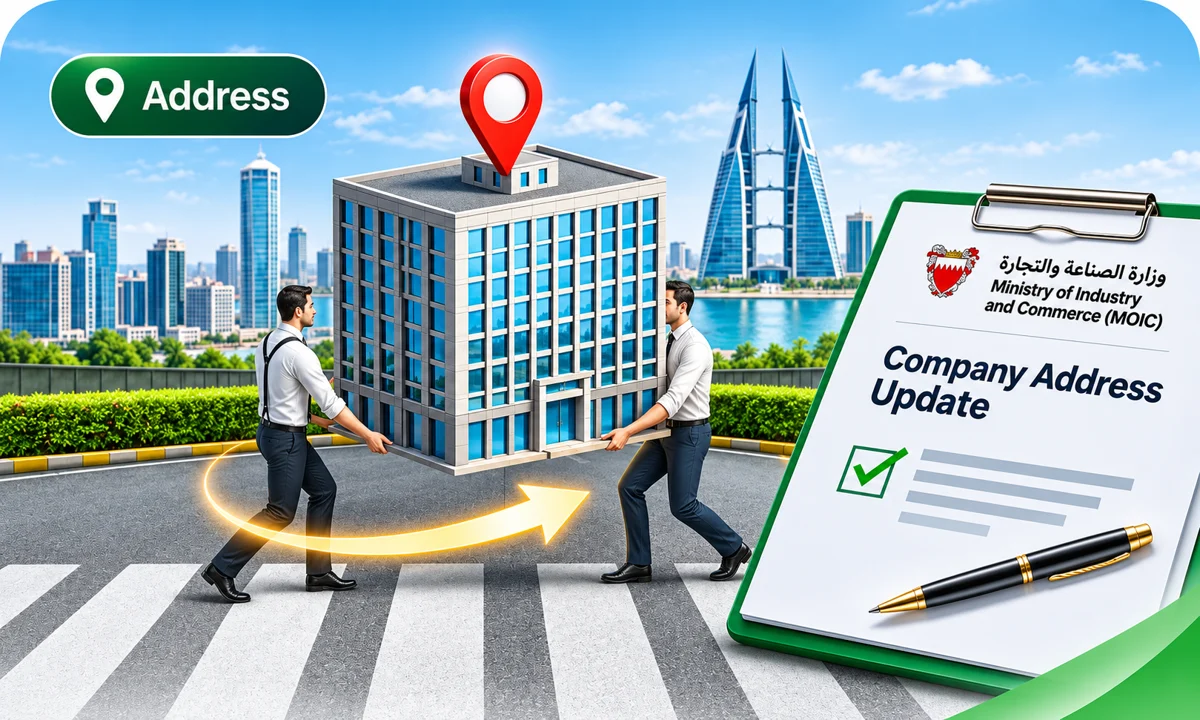
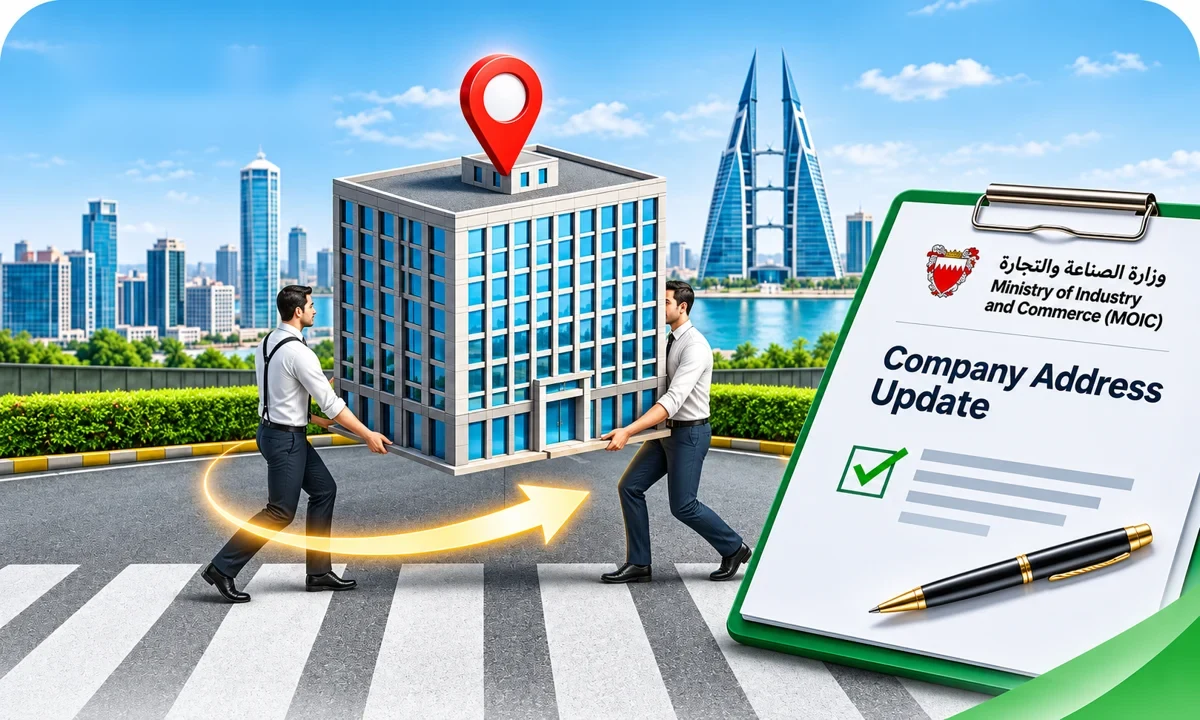
MOIC cards: replace baked-in image labels with standard glass tags
Claude-Session: https://claude.ai/code/session_01Q8SfPFzKec2UT1Fop63zbA

Changed region(s): [[0.0308, 0.0611, 0.2775, 0.2139]]

diff --git a/moic-services.html b/moic-services.html
@@ -11343,7 +11343,7 @@ input, select, textarea {
         </header>
         <div class="cm2-stack">
 <section class="bcx moic-x" id="moic-services" aria-label="Ministry of Industry &amp; Commerce services">
-  <div class="gvx-grid moic-gvx"><a class="gvx-card" href="https://wa.me/97317290001?text=Hi%20DMS%2C%20I%20need%20help%20with%20MOIC%3A%20Add%20or%20remove%20signatories" target="_blank" rel="noopener" aria-label="Add or remove signatories, ask on WhatsApp"><img class="gvx-bg" src="assets/moic-signatories.webp" alt="" loading="lazy" decoding="async" style="object-position:center 30%"><span class="gvx-grade" aria-hidden="true"></span><span class="gvx-tag">Signatories</span><h3>Add or remove signatories</h3><p>Update who can sign and act for your company.</p><span class="gvx-go" aria-hidden="true"><svg viewBox="0 0 24 24"><path d="M5 12h14M13 6l6 6-6 6"/></svg></span></a><a class="gvx-card" href="https://wa.me/97317290001?text=Hi%20DMS%2C%20I%20need%20help%20with%20MOIC%3A%20Company%20address%20change" target="_blank" rel="noopener" aria-label="Company address change, ask on WhatsApp"><img class="gvx-bg" src="assets/moic-address-move.webp" alt="" loading="lazy" decoding="async" style="object-position:left top"><span class="gvx-grade" aria-hidden="true"></span><h3>Company address change</h3><p>Register your new company address with MOIC.</p><span class="gvx-go" aria-hidden="true"><svg viewBox="0 0 24 24"><path d="M5 12h14M13 6l6 6-6 6"/></svg></span></a><a class="gvx-card" href="https://wa.me/97317290001?text=Hi%20DMS%2C%20I%20need%20help%20with%20MOIC%3A%20Offense%20removal" target="_blank" rel="noopener" aria-label="Offense removal, ask on WhatsApp"><img class="gvx-bg" src="assets/lmx-admin.webp" alt="" loading="lazy" decoding="async" style="object-position:center 35%"><span class="gvx-grade" aria-hidden="true"></span><span class="gvx-tag">Compliance</span><h3>Offense removal</h3><p>Clear outstanding MOIC violations on your record.</p><span class="gvx-go" aria-hidden="true"><svg viewBox="0 0 24 24"><path d="M5 12h14M13 6l6 6-6 6"/></svg></span></a><a class="gvx-card" href="https://wa.me/97317290001?text=Hi%20DMS%2C%20I%20need%20help%20with%20MOIC%3A%20Audit%20report%20submission" target="_blank" rel="noopener" aria-label="Audit report submission, ask on WhatsApp"><img class="gvx-bg" src="assets/moic-audit.webp" alt="" loading="lazy" decoding="async" style="object-position:center 58%"><span class="gvx-grade" aria-hidden="true"></span><span class="gvx-tag">Annual filing</span><h3>Audit report submission</h3><p>File your annual audited financial statements.</p><span class="gvx-go" aria-hidden="true"><svg viewBox="0 0 24 24"><path d="M5 12h14M13 6l6 6-6 6"/></svg></span></a><a class="gvx-card" href="https://wa.me/97317290001?text=Hi%20DMS%2C%20I%20need%20help%20with%20MOIC%3A%20UBO%20registration%20%26%20renewal" target="_blank" rel="noopener" aria-label="UBO registration &amp; renewal, ask on WhatsApp"><img class="gvx-bg" src="assets/moic-ubo.webp" alt="" loading="lazy" decoding="async" style="object-position:left top"><span class="gvx-grade" aria-hidden="true"></span><h3>UBO registration &amp; renewal</h3><p>Register and renew ultimate beneficial owners.</p><span class="gvx-go" aria-hidden="true"><svg viewBox="0 0 24 24"><path d="M5 12h14M13 6l6 6-6 6"/></svg></span></a><a class="gvx-card" href="https://wa.me/97317290001?text=Hi%20DMS%2C%20I%20need%20help%20with%20MOIC%3A%20ESR%20report%20submission" target="_blank" rel="noopener" aria-label="ESR report submission, ask on WhatsApp"><img class="gvx-bg" src="assets/ac-hero-colleagues.webp" alt="" loading="lazy" decoding="async" style="object-position:center 35%"><span class="gvx-grade" aria-hidden="true"></span><span class="gvx-tag">Annual filing</span><h3>ESR report submission</h3><p>Economic substance reporting, filed on time.</p><span class="gvx-go" aria-hidden="true"><svg viewBox="0 0 24 24"><path d="M5 12h14M13 6l6 6-6 6"/></svg></span></a><a class="gvx-card" href="https://wa.me/97317290001?text=Hi%20DMS%2C%20I%20need%20help%20with%20MOIC%3A%20Activity%20renewal" target="_blank" rel="noopener" aria-label="Activity renewal, ask on WhatsApp"><img class="gvx-bg" src="assets/crc-activity.webp" alt="" loading="lazy" decoding="async" style="object-position:center 40%"><span class="gvx-grade" aria-hidden="true"></span><span class="gvx-tag">Renewal</span><h3>Activity renewal</h3><p>Renew the commercial activities on your CR.</p><span class="gvx-go" aria-hidden="true"><svg viewBox="0 0 24 24"><path d="M5 12h14M13 6l6 6-6 6"/></svg></span></a><a class="gvx-card" href="https://wa.me/97317290001?text=Hi%20DMS%2C%20I%20need%20help%20with%20MOIC%3A%20Update%20contact%20details" target="_blank" rel="noopener" aria-label="Update contact details, ask on WhatsApp"><img class="gvx-bg" src="assets/moic-contact.webp" alt="" loading="lazy" decoding="async" style="object-position:60% 25%"><span class="gvx-grade" aria-hidden="true"></span><span class="gvx-tag">Records</span><h3>Update contact details</h3><p>Keep your company contact information current.</p><span class="gvx-go" aria-hidden="true"><svg viewBox="0 0 24 24"><path d="M5 12h14M13 6l6 6-6 6"/></svg></span></a><a class="gvx-card" href="https://wa.me/97317290001?text=Hi%20DMS%2C%20I%20need%20help%20with%20MOIC%3A%20Company%20registration%20%28renewal%29" target="_blank" rel="noopener" aria-label="Company registration (renewal), ask on WhatsApp"><img class="gvx-bg" src="assets/moic-cr-cert.webp" alt="" loading="lazy" decoding="async" style="object-position:center 28%"><span class="gvx-grade" aria-hidden="true"></span><span class="gvx-tag">Renewal</span><h3>Company registration (renewal)</h3><p>Renew your commercial registration each year.</p><span class="gvx-go" aria-hidden="true"><svg viewBox="0 0 24 24"><path d="M5 12h14M13 6l6 6-6 6"/></svg></span></a><a class="gvx-card" href="https://wa.me/97317290001?text=Hi%20DMS%2C%20I%20need%20help%20with%20MOIC%3A%20Commercial%20registration%20extract" target="_blank" rel="noopener" aria-label="Commercial registration extract, ask on WhatsApp"><img class="gvx-bg" src="assets/moic-cr-extract.webp" alt="" loading="lazy" decoding="async" style="object-position:left top"><span class="gvx-grade" aria-hidden="true"></span><h3>Commercial registration extract</h3><p>Official CR extracts for banks and authorities.</p><span class="gvx-go" aria-hidden="true"><svg viewBox="0 0 24 24"><path d="M5 12h14M13 6l6 6-6 6"/></svg></span></a></div>
+  <div class="gvx-grid moic-gvx"><a class="gvx-card" href="https://wa.me/97317290001?text=Hi%20DMS%2C%20I%20need%20help%20with%20MOIC%3A%20Add%20or%20remove%20signatories" target="_blank" rel="noopener" aria-label="Add or remove signatories, ask on WhatsApp"><img class="gvx-bg" src="assets/moic-signatories.webp" alt="" loading="lazy" decoding="async" style="object-position:center 30%"><span class="gvx-grade" aria-hidden="true"></span><span class="gvx-tag">Signatories</span><h3>Add or remove signatories</h3><p>Update who can sign and act for your company.</p><span class="gvx-go" aria-hidden="true"><svg viewBox="0 0 24 24"><path d="M5 12h14M13 6l6 6-6 6"/></svg></span></a><a class="gvx-card" href="https://wa.me/97317290001?text=Hi%20DMS%2C%20I%20need%20help%20with%20MOIC%3A%20Company%20address%20change" target="_blank" rel="noopener" aria-label="Company address change, ask on WhatsApp"><img class="gvx-bg" src="assets/moic-address-move.webp?v=2" alt="" loading="lazy" decoding="async" style="object-position:left top"><span class="gvx-grade" aria-hidden="true"></span><span class="gvx-tag">Address</span><h3>Company address change</h3><p>Register your new company address with MOIC.</p><span class="gvx-go" aria-hidden="true"><svg viewBox="0 0 24 24"><path d="M5 12h14M13 6l6 6-6 6"/></svg></span></a><a class="gvx-card" href="https://wa.me/97317290001?text=Hi%20DMS%2C%20I%20need%20help%20with%20MOIC%3A%20Offense%20removal" target="_blank" rel="noopener" aria-label="Offense removal, ask on WhatsApp"><img class="gvx-bg" src="assets/lmx-admin.webp" alt="" loading="lazy" decoding="async" style="object-position:center 35%"><span class="gvx-grade" aria-hidden="true"></span><span class="gvx-tag">Compliance</span><h3>Offense removal</h3><p>Clear outstanding MOIC violations on your record.</p><span class="gvx-go" aria-hidden="true"><svg viewBox="0 0 24 24"><path d="M5 12h14M13 6l6 6-6 6"/></svg></span></a><a class="gvx-card" href="https://wa.me/97317290001?text=Hi%20DMS%2C%20I%20need%20help%20with%20MOIC%3A%20Audit%20report%20submission" target="_blank" rel="noopener" aria-label="Audit report submission, ask on WhatsApp"><img class="gvx-bg" src="assets/moic-audit.webp" alt="" loading="lazy" decoding="async" style="object-position:center 58%"><span class="gvx-grade" aria-hidden="true"></span><span class="gvx-tag">Annual filing</span><h3>Audit report submission</h3><p>File your annual audited financial statements.</p><span class="gvx-go" aria-hidden="true"><svg viewBox="0 0 24 24"><path d="M5 12h14M13 6l6 6-6 6"/></svg></span></a><a class="gvx-card" href="https://wa.me/97317290001?text=Hi%20DMS%2C%20I%20need%20help%20with%20MOIC%3A%20UBO%20registration%20%26%20renewal" target="_blank" rel="noopener" aria-label="UBO registration &amp; renewal, ask on WhatsApp"><img class="gvx-bg" src="assets/moic-ubo.webp?v=2" alt="" loading="lazy" decoding="async" style="object-position:left top"><span class="gvx-grade" aria-hidden="true"></span><span class="gvx-tag">Ownership</span><h3>UBO registration &amp; renewal</h3><p>Register and renew ultimate beneficial owners.</p><span class="gvx-go" aria-hidden="true"><svg viewBox="0 0 24 24"><path d="M5 12h14M13 6l6 6-6 6"/></svg></span></a><a class="gvx-card" href="https://wa.me/97317290001?text=Hi%20DMS%2C%20I%20need%20help%20with%20MOIC%3A%20ESR%20report%20submission" target="_blank" rel="noopener" aria-label="ESR report submission, ask on WhatsApp"><img class="gvx-bg" src="assets/ac-hero-colleagues.webp" alt="" loading="lazy" decoding="async" style="object-position:center 35%"><span class="gvx-grade" aria-hidden="true"></span><span class="gvx-tag">Annual filing</span><h3>ESR report submission</h3><p>Economic substance reporting, filed on time.</p><span class="gvx-go" aria-hidden="true"><svg viewBox="0 0 24 24"><path d="M5 12h14M13 6l6 6-6 6"/></svg></span></a><a class="gvx-card" href="https://wa.me/97317290001?text=Hi%20DMS%2C%20I%20need%20help%20with%20MOIC%3A%20Activity%20renewal" target="_blank" rel="noopener" aria-label="Activity renewal, ask on WhatsApp"><img class="gvx-bg" src="assets/crc-activity.webp" alt="" loading="lazy" decoding="async" style="object-position:center 40%"><span class="gvx-grade" aria-hidden="true"></span><span class="gvx-tag">Renewal</span><h3>Activity renewal</h3><p>Renew the commercial activities on your CR.</p><span class="gvx-go" aria-hidden="true"><svg viewBox="0 0 24 24"><path d="M5 12h14M13 6l6 6-6 6"/></svg></span></a><a class="gvx-card" href="https://wa.me/97317290001?text=Hi%20DMS%2C%20I%20need%20help%20with%20MOIC%3A%20Update%20contact%20details" target="_blank" rel="noopener" aria-label="Update contact details, ask on WhatsApp"><img class="gvx-bg" src="assets/moic-contact.webp" alt="" loading="lazy" decoding="async" style="object-position:60% 25%"><span class="gvx-grade" aria-hidden="true"></span><span class="gvx-tag">Records</span><h3>Update contact details</h3><p>Keep your company contact information current.</p><span class="gvx-go" aria-hidden="true"><svg viewBox="0 0 24 24"><path d="M5 12h14M13 6l6 6-6 6"/></svg></span></a><a class="gvx-card" href="https://wa.me/97317290001?text=Hi%20DMS%2C%20I%20need%20help%20with%20MOIC%3A%20Company%20registration%20%28renewal%29" target="_blank" rel="noopener" aria-label="Company registration (renewal), ask on WhatsApp"><img class="gvx-bg" src="assets/moic-cr-cert.webp" alt="" loading="lazy" decoding="async" style="object-position:center 28%"><span class="gvx-grade" aria-hidden="true"></span><span class="gvx-tag">Renewal</span><h3>Company registration (renewal)</h3><p>Renew your commercial registration each year.</p><span class="gvx-go" aria-hidden="true"><svg viewBox="0 0 24 24"><path d="M5 12h14M13 6l6 6-6 6"/></svg></span></a><a class="gvx-card" href="https://wa.me/97317290001?text=Hi%20DMS%2C%20I%20need%20help%20with%20MOIC%3A%20Commercial%20registration%20extract" target="_blank" rel="noopener" aria-label="Commercial registration extract, ask on WhatsApp"><img class="gvx-bg" src="assets/moic-cr-extract.webp?v=2" alt="" loading="lazy" decoding="async" style="object-position:left top"><span class="gvx-grade" aria-hidden="true"></span><span class="gvx-tag">Documents</span><h3>Commercial registration extract</h3><p>Official CR extracts for banks and authorities.</p><span class="gvx-go" aria-hidden="true"><svg viewBox="0 0 24 24"><path d="M5 12h14M13 6l6 6-6 6"/></svg></span></a></div>
   <div class="bcx-band">
     <div><h3>Need help with an MOIC application?</h3><p>Tell us what you need and our team will handle the paperwork and follow-up.</p></div>
     <div class="cta3"><a class="cta3-wa" href="https://wa.me/97317290001?text=Hello%20DMS%2C%20I%20need%20help%20with%20MOIC%20services." target="_blank" rel="noopener"><svg viewBox="0 0 24 24" aria-hidden="true"><path d="M12 3.2a8.8 8.8 0 0 0-7.6 13.2L3.2 20.8l4.5-1.2A8.8 8.8 0 1 0 12 3.2z"/><path d="M8.9 8.3c.2-.4.4-.4.7-.4h.5c.2 0 .4 0 .5.4l.7 1.7c.1.2 0 .4-.1.6l-.5.6c-.1.1-.2.3 0 .5.5.9 1.4 1.8 2.4 2.3.2.1.4.1.5-.1l.6-.7c.2-.2.4-.2.6-.1l1.6.8c.2.1.4.2.4.4 0 .5-.2 1.2-.7 1.6-.5.4-1.2.6-2 .4-3-.8-5.3-3.1-6-6-.2-.8 0-1.5.4-2z" fill="currentColor" stroke="none"/></svg>WhatsApp us</a><a class="cta3-alt" href="mailto:info@dmsbahrain.com?subject=MOIC%20services%20enquiry"><svg viewBox="0 0 24 24" aria-hidden="true"><rect x="3" y="5" width="18" height="14" rx="2.5"/><path d="m4 7 8 6 8-6"/></svg>Email us</a><a class="cta3-alt" href="tel:+97317290001"><svg viewBox="0 0 24 24" aria-hidden="true"><path d="M5 4h4l2 5-2.5 1.5a11 11 0 0 0 5 5L15 13l5 2v4a2 2 0 0 1-2 2A16 16 0 0 1 3 6a2 2 0 0 1 2-2z"/></svg>Call us</a></div>
